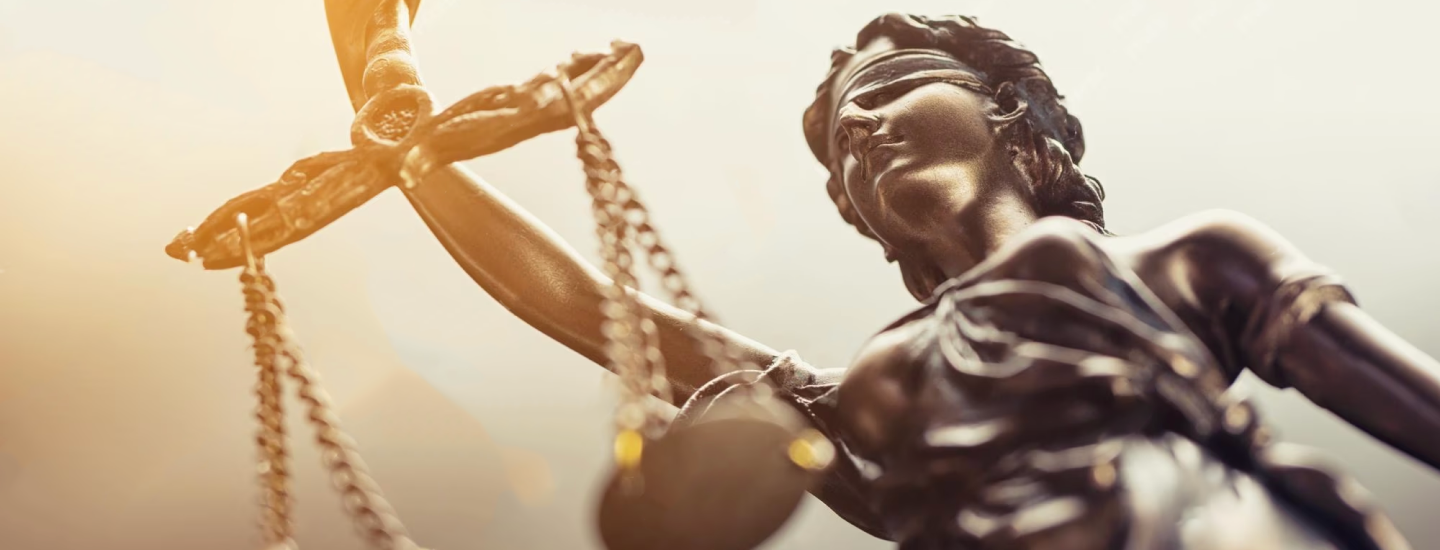
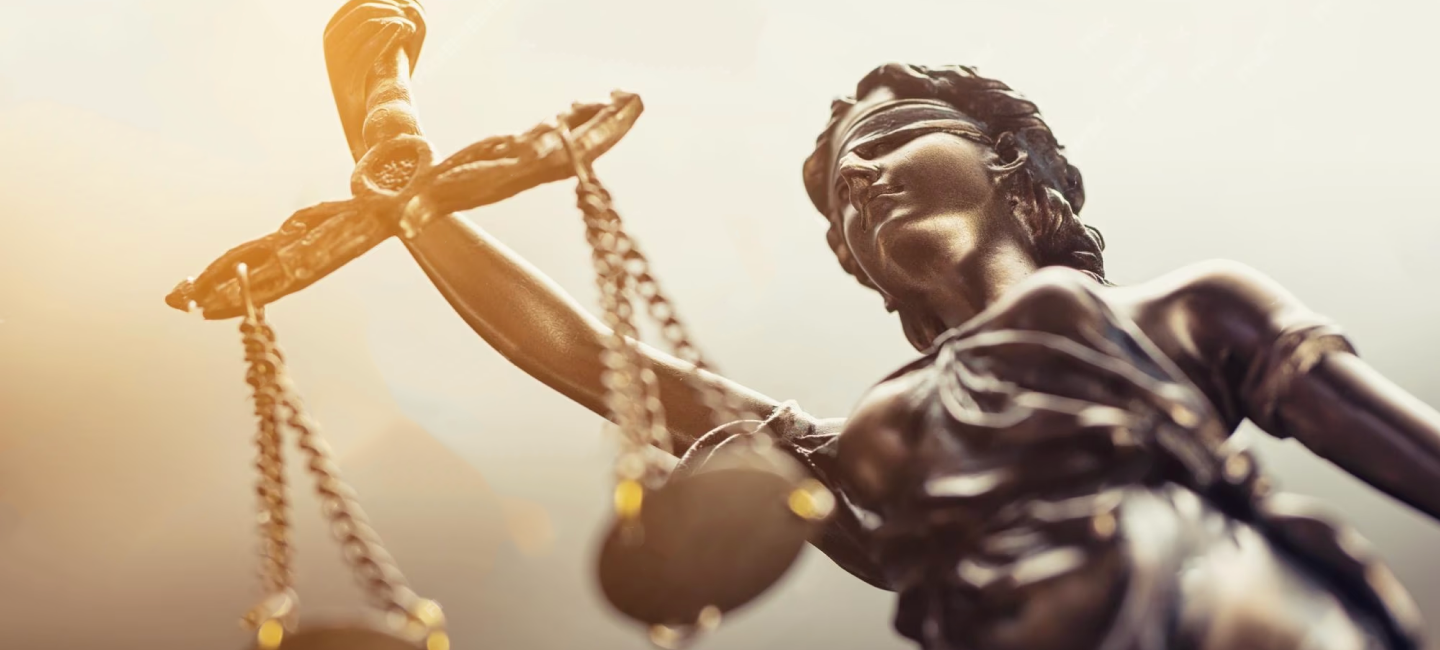
header

diff --git a/app/components/Header.tsx b/app/components/Header.tsx
@@ -3,32 +3,44 @@ import Image from 'next/image';
 
 const Header = () => {
   return (
-    <div className="w-100">
-      <nav className="container m-auto grid grid-cols-2 items-center pt-3 pb-3 fixed bg-white">
-        <a href="">
-          <Image src="/logo.svg" alt="logotipo" width={260} height={45.28} />
-        </a>
-        <ul className="flex justify-between">
-          <li>
-            <a href="">Nosso Escritório</a>
-          </li>
-          <li>
-            <a href="">Área de Atuação</a>
-          </li>
-          <li>
-            <a href="">Diferencial</a>
-          </li>
-          <li>
-            <a href="">Contato</a>
-          </li>
-        </ul>
-      </nav>
+    <div className="w-100 relative">
+      <div className="w-screen bg-white fixed z-10">
+        <nav className="container m-auto grid grid-cols-2 items-center pt-3 pb-3">
+          <a href="">
+            <Image src="/logo.svg" alt="logotipo" width={260} height={45.28} />
+          </a>
+          <ul className="flex justify-between">
+            <li>
+              <a href="">Nosso Escritório</a>
+            </li>
+            <li>
+              <a href="">Área de Atuação</a>
+            </li>
+            <li>
+              <a href="">Diferencial</a>
+            </li>
+            <li>
+              <a href="">Contato</a>
+            </li>
+          </ul>
+        </nav>
+      </div>
+      <div className="w-screen flex items-center z-10 bg-green-400 absolute">
+        <div className="container m-auto">
+          <p>Proteja seus direitos</p>
+          <h1>
+            Nosso escritório está aqui para representar e proteger os seus
+            interesses
+          </h1>
+          <a href="">Fale conosco</a>
+        </div>
+      </div>
       <Image
         src="/bannerTop.png"
         alt="Banner Top"
         width={1440}
         height={600}
-        className="w-screen cover"
+        className="w-screen h-screen object-scale-down absolute"
       />
     </div>
   );
